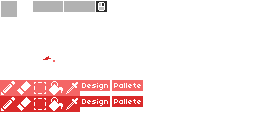
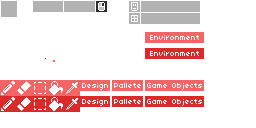
Update

diff --git a/OOP-Game/Main.cpp b/OOP-Game/Main.cpp
@@ -15,7 +15,11 @@ class LevelData {
 	Player* player;
 	std::vector<GameObject *> objects;
 
-	void save(tinyxml2::XMLNode* node) {
+	void save(std::string filename) {
+		tinyxml2::XMLDocument* doc = new tinyxml2::XMLDocument();
+		doc->NewElement("Level");
+
+		doc->SaveFile(filename.c_str());
 
 	}
 
@@ -72,7 +76,7 @@ public:
 		countY = noY;
 
 		m_border.setPosition(-1, -1);
-		m_border.setSize(sf::Vector2f(getBoundingBox().width + 2, getBoundingBox().height + 2));
+		m_border.setSize(sf::Vector2f(getBoundingBox().width + 1, getBoundingBox().height + 1));
 		m_border.setFillColor(sf::Color(255, 255, 255, 50));
 		m_border.setOutlineColor(sf::Color::Black);
 		m_border.setOutlineThickness(1.0f);
@@ -113,7 +117,6 @@ public:
 
 		if (isVisible() && intersect(pos)) {
 			sf::Vector2i tileIndex = getTileIndex(pos);
-			printf("%i, %i\n", tileIndex.x, tileIndex.y);
 
 			if (tileIndex.x != -1 && tileIndex.y != -1) {
 				if (leftButton->pressed()) {
@@ -218,6 +221,11 @@ private:
 	Button* designButton;
 	Button* palleteButton;
 
+	GameObject* layerContainer;
+	ButtonGroup* layerGroup;
+	Button* gameObjectsButton;
+	Button* environmentButton;
+
 	TileMap* map;
 	TilePalleteObject* tilePallete;
 
@@ -237,7 +245,7 @@ public:
 		map->setGridVisible(true);
 		addGameObject(map);
 
-		PrimaryToolbarCreation: {
+		{
 			toolbarContainer = new GameObject();
 
 			for (int i = 0; i < 5; i++) {
@@ -263,7 +271,7 @@ public:
 			toolGroup->select(pencilButton);
 		}
 
-		PanelSelectorCreation: {
+		{
 			panelContainer = new GameObject();
 			const SpriteData* sprContainer = store.editorUI->getSpriteData("PanelContainer");
 			panelContainer->addGraphic(sprContainer->makeSprite());
@@ -276,6 +284,20 @@ public:
 			panelContainer->addChild(palleteButton = makeToggleButton(32, 1, store.editorUI, "Pallete"));
 			panelGroup = new ButtonGroup({ designButton, palleteButton });
 			panelGroup->select(designButton);
+		}
+
+		{
+			layerContainer = new GameObject();
+			const SpriteData* sprContainer = store.editorUI->getSpriteData("LayerContainer");
+			layerContainer->addGraphic(sprContainer->makeSprite());
+			layerContainer->setBoundingBox(sprContainer->width, sprContainer->height);
+			layerContainer->setPosition(404, 3);
+			addGameObject(layerContainer);
+
+			layerContainer->addChild(gameObjectsButton = makeToggleButton(13, 1, store.editorUI, "GameObjects"));
+			layerContainer->addChild(environmentButton = makeToggleButton(13, 13, store.editorUI, "Environment"));
+			layerGroup = new ButtonGroup({ gameObjectsButton, environmentButton });
+			layerGroup->select(environmentButton);
 		}
 
 		setCamera(new Camera(480, 270)); 
@@ -312,6 +334,7 @@ public:
 				tilePallete->setVisible(false);
 				map->setVisible(true);
 				toolbarContainer->setVisible(true);
+				layerContainer->setVisible(true);
 				break;
 			case Panel::Pallete:
 				m_panel = Panel::Pallete;
@@ -319,6 +342,7 @@ public:
 				tilePallete->setVisible(true);
 				map->setVisible(false);
 				toolbarContainer->setVisible(false);
+				layerContainer->setVisible(false);
 				break;
 		}
 	}
